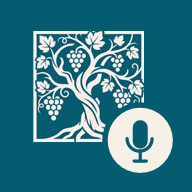
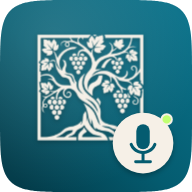
Etape 1 : vocabulaire de correction repliable et securise, reglage Apparence (clair par defaut), icone D, texte A propos

diff --git a/app.css b/app.css
@@ -7,21 +7,28 @@
 
 :root {
   --bg: #F6F0E7; --surface: #FCFAF5; --surface2: #F2EBDF; --side: #F1EADF;
-  --ink: #1F2A30; --text: #444444; --muted: #766F64; --line: rgba(4, 92, 112, .13); --line-strong: rgba(4, 92, 112, .24);
+  --ink: #1F2A30; --text: #444444; --doc: #333333; --muted: #766F64; --line: rgba(4, 92, 112, .13); --line-strong: rgba(4, 92, 112, .24);
   --teal: #045C70; --teal-d: #033F4E; --teal-soft: #E3EEF0; --on-teal: #F6F0E7; --navy: #082952; --blue: #1F497D; --marine: #1F497D; --flash: #C1FF72;
   --danger: #A33B3B; --danger-soft: #F5E4E2; --ok: #2E7D5B;
   --shadow: 0 1px 0 rgba(31, 73, 125, .04), 0 10px 28px -14px rgba(31, 73, 125, .22);
   --serif: "Abhaya Libre", Georgia, serif; --sans: "Open Sans", -apple-system, system-ui, "Segoe UI", sans-serif;
   --tab-h: 66px; --r-lg: 24px; --r-md: 18px; --r-sm: 13px; --side-w: 252px;
 }
+:root { color-scheme: light; }
+:root[data-theme="dark"] { color-scheme: dark; }
+:root[data-theme="auto"] { color-scheme: light dark; }
+:root[data-theme="dark"] {
+  --bg: #071A33; --surface: #0D2747; --surface2: #0A213E; --side: #08203B; --ink: #F6F0E7; --text: #D8D2C6; --doc: #E6E0D4; --muted: #98A5B6; --line: rgba(246, 240, 231, .12); --line-strong: rgba(246, 240, 231, .24);
+  --teal: #6CB8CA; --teal-d: #8CC8D6; --teal-soft: #12384F; --on-teal: #06223A; --marine: #9DB8DD; --blue: #9DB8DD; --danger: #E88A84; --danger-soft: #3A1F28; --ok: #6FCF9F;
+  --shadow: 0 1px 0 rgba(0, 0, 0, .3), 0 10px 28px -14px rgba(0, 0, 0, .5);
+}
 @media (prefers-color-scheme: dark) {
-  :root {
-    --bg: #071A33; --surface: #0D2747; --surface2: #0A213E; --side: #08203B; --ink: #F6F0E7; --text: #D8D2C6; --muted: #98A5B6; --line: rgba(246, 240, 231, .12); --line-strong: rgba(246, 240, 231, .24);
+  :root[data-theme="auto"] {
+    --bg: #071A33; --surface: #0D2747; --surface2: #0A213E; --side: #08203B; --ink: #F6F0E7; --text: #D8D2C6; --doc: #E6E0D4; --muted: #98A5B6; --line: rgba(246, 240, 231, .12); --line-strong: rgba(246, 240, 231, .24);
     --teal: #6CB8CA; --teal-d: #8CC8D6; --teal-soft: #12384F; --on-teal: #06223A; --marine: #9DB8DD; --blue: #9DB8DD; --danger: #E88A84; --danger-soft: #3A1F28; --ok: #6FCF9F;
     --shadow: 0 1px 0 rgba(0, 0, 0, .3), 0 10px 28px -14px rgba(0, 0, 0, .5);
   }
-}
-* { box-sizing: border-box; -webkit-tap-highlight-color: transparent; }
+}* { box-sizing: border-box; -webkit-tap-highlight-color: transparent; }
 [hidden] { display: none !important; }
 html { -webkit-text-size-adjust: 100%; }
 body { margin: 0; background: var(--bg); color: var(--text); font: 400 15.5px/1.55 var(--sans); -webkit-font-smoothing: antialiased; }
@@ -121,7 +128,7 @@ select.field { background-image: linear-gradient(45deg, transparent 50%, var(--m
 .banner button { border: 0; background: none; color: var(--teal); font: 700 13.5px var(--sans); padding: 6px 0 0; }
 
 /* ----- Accueil ----- */
-.hero { margin-top: 20px; border-radius: 28px; padding: 24px 22px 22px; color: var(--on-teal); position: relative; overflow: hidden; background: linear-gradient(150deg, #0B7189 0%, var(--teal) 45%, #033F4E 100%); box-shadow: 0 22px 36px -22px rgba(4, 92, 112, .85); }
+.hero { margin-top: 20px; border-radius: 28px; padding: 24px 22px 22px; color: var(--on-teal); position: relative; overflow: hidden; background: linear-gradient(150deg, #0B7189 0%, #045C70 45%, #033F4E 100%); box-shadow: 0 22px 36px -22px rgba(4, 92, 112, .85); }
 .hero::after { content: ""; position: absolute; width: 215px; height: 215px; right: -34px; bottom: -40px; background: url(img/emblem-ivory.png) center/contain no-repeat; opacity: .13; pointer-events: none; }
 .hero .eyebrow { color: rgba(246, 240, 231, .72); }
 .hero h2 { font: 400 30px/1.12 var(--serif); margin: 10px 0 8px; color: #F6F0E7; max-width: 260px; }
@@ -172,7 +179,7 @@ select.field { background-image: linear-gradient(45deg, transparent 50%, var(--m
 .actions .btn.small { padding: 8px 14px; font-size: 13.5px; gap: 6px; }
 .round { position: relative; width: 44px; height: 44px; flex: none; border-radius: 50%; border: 1px solid var(--line-strong); background: transparent; display: grid; place-items: center; color: var(--teal); padding: 0; }
 .round b { position: absolute; top: -5px; right: -5px; min-width: 19px; height: 19px; border-radius: 10px; background: var(--marine); color: #fff; font: 700 10.5px/19px var(--sans); text-align: center; padding: 0 5px; }
-#app .view textarea.doc, .doc { background: var(--surface); border: 1px solid var(--line); border-radius: var(--r-lg); box-shadow: var(--shadow); padding: 20px; font-size: 16px; line-height: 1.75; color: #333; }
+#app .view textarea.doc, .doc { background: var(--surface); border: 1px solid var(--line); border-radius: var(--r-lg); box-shadow: var(--shadow); padding: 20px; font-size: 16px; line-height: 1.75; color: var(--doc); }
 .doc-scroll { min-height: 170px; max-height: 70dvh; overflow: auto; }
 .player { display: flex; align-items: center; gap: 14px; }
 .player .play { width: 50px; height: 50px; border-radius: 50%; border: 0; background: var(--teal); color: var(--on-teal); display: grid; place-items: center; flex: none; }
@@ -189,7 +196,7 @@ select.field { background-image: linear-gradient(45deg, transparent 50%, var(--m
 .rsec-head .rt { flex: 1; }
 .info-grid { display: grid; gap: 4px; }
 .kv { display: flex; justify-content: space-between; gap: 12px; padding: 11px 0; border-bottom: 1px solid var(--line); font-size: 14.5px; }
-.kv:last-child { border-bottom: 0; } .kv span:first-child { color: var(--muted); } .kv span:last-child { color: var(--ink); text-align: right; }
+.kv:last-child { border-bottom: 0; } .kv > span:first-child { color: var(--muted); } .kv > span:last-child { color: var(--ink); text-align: right; }
 .catpick { display: grid; gap: 8px; }
 .catpick button { display: flex; align-items: center; gap: 12px; text-align: left; border: 1px solid var(--line); background: var(--surface); border-radius: var(--r-md); padding: 12px 14px; min-height: 56px; }
 .catpick button.on { border-color: var(--teal); background: var(--teal-soft); box-shadow: inset 0 0 0 1px var(--teal); }
@@ -230,7 +237,7 @@ select.field { background-image: linear-gradient(45deg, transparent 50%, var(--m
 .picker-row svg { color: var(--teal); }
 #toast { position: fixed; left: 50%; bottom: calc(var(--tab-h) + 26px + env(safe-area-inset-bottom)); transform: translate(-50%, 12px); background: var(--navy); color: #F6F0E7; padding: 12px 20px; border-radius: 999px; font-size: 14.5px; opacity: 0; pointer-events: none; transition: all .25s ease; z-index: 70; max-width: 90vw; text-align: center; box-shadow: 0 8px 24px rgba(0, 0, 0, .25); }
 #toast.show { opacity: 1; transform: translate(-50%, 0); }
-.ia-card { border: 1px dashed var(--line-strong); background: rgba(255, 255, 255, .45); box-shadow: none; }
+.ia-card { border: 1px dashed var(--line-strong); background: color-mix(in srgb, var(--surface) 55%, transparent); box-shadow: none; }
 .ia-card .badge { display: inline-block; background: var(--teal-soft); color: var(--teal); border-radius: 999px; padding: 3px 10px; font: 600 11px var(--sans); margin-left: 8px; vertical-align: middle; }
 .settings-group { margin-top: 26px; }
 .settings-group > h2 { font: 700 11px/1 var(--sans); letter-spacing: .14em; text-transform: uppercase; color: var(--teal); margin-bottom: 12px; }
@@ -308,3 +315,18 @@ html.kbd .update-banner { display: none; }
   @page { margin: 18mm 16mm; }
 }
 @media (prefers-reduced-motion: reduce) { * { animation: none !important; transition: none !important; } }
+
+/* ----- Section dépliable (vocabulaire de correction) ----- */
+.acc { padding: 0; overflow: hidden; }
+.acc-head { display: flex; align-items: center; gap: 14px; width: 100%; padding: 16px; border: 0; background: none; text-align: left; min-height: 76px; cursor: pointer; }
+.acc-title { font: 600 15.5px/1.3 var(--sans); color: var(--ink); }
+.acc-sub { font-size: 12.8px; color: var(--muted); margin-top: 2px; }
+.acc-chev { color: #b4aea2; transition: transform .2s ease; flex: none; width: 18px; height: 18px; }
+.acc.open .acc-chev { transform: rotate(90deg); }
+.acc-body { padding: 4px 16px 18px; border-top: 1px solid var(--line); }
+.acc-add { padding-top: 12px; }
+.check { display: flex; gap: 10px; align-items: flex-start; margin-top: 12px; font-size: 13.5px; color: var(--text); cursor: pointer; }
+.check input { width: 20px; height: 20px; margin: 1px 0 0; flex: none; }
+.vocab-item { padding: 14px 0; border-bottom: 1px solid var(--line); }
+.vocab-item:last-child { border-bottom: 0; }
+.vocab-foot { display: flex; justify-content: space-between; align-items: center; margin-top: 10px; }

diff --git a/js/vocab-ui.js b/js/vocab-ui.js
@@ -1,0 +1,78 @@
+// Réglages : vocabulaire de correction, sous forme de section dépliable (fermée par défaut).
+// Les corrections servent à réécrire les mots que la transcription Apple orthographie mal (PEA, assurance-vie, SCPI…).
+import { h, icon, toast, confirmDialog } from './ui.js';
+import * as S from './store.js';
+
+export function vocabAccordion() {
+  let list = S.getVocab();
+  let open = false, query = '';
+  const save = () => { S.setVocab(list); count(); };
+  const norm = (s) => (s || '').toLowerCase().normalize('NFD').replace(/[̀-ͯ]/g, '');
+
+  const title = h('div', { class: 'acc-title', text: 'Vocabulaire de correction' });
+  const sub = h('div', { class: 'acc-sub' });
+  const chev = icon('chevron', 'acc-chev');
+  const head = h('button', { class: 'acc-head', 'aria-expanded': 'false', onclick: () => { open = !open; sync(); } }, h('div', { class: 'tile' }, icon('edit')), h('div', { class: 'grow' }, title, sub), chev);
+  const body = h('div', { class: 'acc-body', hidden: true });
+  const card = h('div', { class: 'card acc' }, head, body);
+  const count = () => { const n = list.length; sub.textContent = n ? `${n} correction${n > 1 ? 's' : ''} enregistrée${n > 1 ? 's' : ''}` : 'Aucune correction enregistrée'; };
+
+  // ----- ajout rapide -----
+  const fromInp = h('input', { class: 'field', placeholder: 'Mot mal transcrit (ex. assurance vie)', autocapitalize: 'none', autocorrect: 'off', maxlength: '100', 'aria-label': 'Mot mal transcrit' });
+  const toInp = h('input', { class: 'field', placeholder: 'Bonne écriture (ex. assurance-vie)', autocapitalize: 'none', autocorrect: 'off', maxlength: '100', 'aria-label': 'Bonne écriture' });
+  const csChk = h('input', { type: 'checkbox', id: 'vocab-cs' });
+  const addErr = h('p', { class: 'hint', style: { color: 'var(--danger)', margin: '6px 0 0' }, hidden: true });
+  function add() {
+    const f = fromInp.value.trim(), t = toInp.value.trim();
+    const dup = list.find((v) => v.from.trim().toLowerCase() === f.toLowerCase());
+    const err = S.checkVocabEntry(f, t, list.concat(dup ? [] : []));
+    if (err) { addErr.textContent = err; addErr.hidden = false; return; }
+    addErr.hidden = true;
+    if (dup) { dup.to = t; if (csChk.checked) dup.cs = true; else delete dup.cs; toast('Correction mise à jour'); }
+    else { const e = { from: f, to: t }; if (csChk.checked) e.cs = true; list.unshift(e); toast('Correction ajoutée'); }
+    save(); fromInp.value = ''; toInp.value = ''; csChk.checked = false; query = ''; search.value = ''; draw(); fromInp.focus();
+  }
+  const addBtn = h('button', { class: 'btn primary', style: { marginTop: '12px' }, onclick: add }, icon('plus'), h('span', { text: 'Ajouter cette correction' }));
+  toInp.addEventListener('keydown', (ev) => { if (ev.key === 'Enter') add(); });
+  const adder = h('div', { class: 'acc-add' },
+    h('div', { class: 'lbl', style: { marginTop: 0 }, text: 'Nouvelle correction' }), fromInp, h('div', { style: { height: '8px' } }), toInp,
+    h('label', { class: 'check', for: 'vocab-cs' }, csChk, h('span', { text: 'Respecter exactement les majuscules (pour un terme ambigu)' })), addErr, addBtn);
+
+  // ----- liste -----
+  const search = h('input', { class: 'field', type: 'search', placeholder: 'Rechercher dans mes corrections', 'aria-label': 'Rechercher dans mes corrections', autocomplete: 'off' });
+  search.addEventListener('input', () => { query = norm(search.value.trim()); draw(); });
+  const listBox = h('div', { class: 'acc-list' });
+  function draw() {
+    listBox.textContent = '';
+    const shown = list.map((v, i) => ({ v, i })).filter(({ v }) => !query || norm(v.from + ' ' + v.to).includes(query));
+    if (!shown.length) listBox.append(h('p', { class: 'hint', text: list.length ? 'Aucune correction ne correspond.' : 'Aucune correction pour le moment. Ajoutez-en une ci-dessus.' }));
+    for (const { v, i } of shown) {
+      const a = h('input', { class: 'field', value: v.from, autocapitalize: 'none', autocorrect: 'off', maxlength: '100', 'aria-label': 'Mot mal transcrit' });
+      const b = h('input', { class: 'field', value: v.to, autocapitalize: 'none', autocorrect: 'off', maxlength: '100', 'aria-label': 'Bonne écriture' });
+      const warn = h('p', { class: 'hint', style: { color: 'var(--danger)', margin: '4px 0 0' }, hidden: true });
+      const commit = () => {
+        const f = a.value.trim(), t = b.value.trim();
+        const err = S.checkVocabEntry(f, t, []);
+        if (err) { warn.textContent = err + ' Modification non enregistrée.'; warn.hidden = false; return; }
+        warn.hidden = true; v.from = f; v.to = t; save();
+      };
+      a.addEventListener('change', commit); b.addEventListener('change', commit);
+      const cs = h('input', { type: 'checkbox', checked: !!v.cs, 'aria-label': 'Respecter exactement les majuscules' });
+      cs.addEventListener('change', () => { if (cs.checked) v.cs = true; else delete v.cs; save(); });
+      listBox.append(h('div', { class: 'vocab-item' },
+        h('label', { class: 'lbl', style: { marginTop: 0 }, text: 'La transcription écrit' }), a,
+        h('label', { class: 'lbl', style: { marginTop: '8px' }, text: 'Remplacer par' }), b, warn,
+        h('div', { class: 'vocab-foot' },
+          h('label', { class: 'check' }, cs, h('span', { text: 'Casse exacte' })),
+          h('button', { class: 'btn small danger-ghost', 'aria-label': 'Supprimer cette correction', onclick: async () => {
+            if (!(await confirmDialog({ title: 'Supprimer cette correction ?', message: `« ${v.from} » → « ${v.to} »`, confirmLabel: 'Supprimer', danger: true }))) return;
+            list.splice(list.indexOf(v), 1); save(); draw(); toast('Correction supprimée');
+          } }, icon('trash'), h('span', { text: 'Supprimer' })))));
+    }
+  }
+  body.append(h('p', { class: 'hint', style: { marginTop: 0 }, text: 'Mots que la transcription écrit souvent mal. Dans une fiche, « Corriger » puis « Appliquer mon vocabulaire » les remplace d\'un coup. Seuls les mots entiers sont remplacés ; les chiffres, les montants et les noms propres ne sont jamais touchés.' }), adder, h('div', { class: 'lbl' }, 'Corrections enregistrées'), search, listBox);
+
+  function sync() { body.hidden = !open; head.setAttribute('aria-expanded', String(open)); card.classList.toggle('open', open); if (open) draw(); }
+  count();
+  return card;
+}

diff --git a/js/views-settings.js b/js/views-settings.js
@@ -8,6 +8,7 @@ import * as Up from './update.js';
 import { shareOrDownload } from './exports.js';
 import { AI_STATUS_TEXT } from './ai.js';
 import { modelStatus, localAiSettings, setLocalAi } from './ia-local.js';
+import { vocabAccordion } from './vocab-ui.js';
 
 const fmtMo = (b) => (b / 1048576).toFixed(b > 1e9 ? 0 : 1) + ' Mo';
 const today = () => { const d = new Date(); return `${d.getFullYear()}-${String(d.getMonth() + 1).padStart(2, '0')}-${String(d.getDate()).padStart(2, '0')}`; };
@@ -80,25 +81,18 @@ export async function settingsView({ query }) {
     document.body.append(inp); inp.click(); setTimeout(() => inp.remove(), 120000);
   }
 
-  // ---------- Vocabulaire ----------
-  function vocabBlock() {
-    const list = S.getVocab();
-    const box = h('div', {});
-    const save = () => S.setVocab(list.filter((v) => v.from.trim() || v.to.trim()));
-    function draw() {
-      box.textContent = '';
-      list.forEach((v, i) => {
-        const a = h('input', { class: 'field', value: v.from, placeholder: 'Erreur fréquente', autocapitalize: 'none', autocorrect: 'off', 'aria-label': 'Erreur fréquente' });
-        const b = h('input', { class: 'field', value: v.to, placeholder: 'Écriture correcte', autocapitalize: 'none', autocorrect: 'off', 'aria-label': 'Écriture correcte' });
-        a.addEventListener('input', () => { v.from = a.value; save(); }); b.addEventListener('input', () => { v.to = b.value; save(); });
-        box.append(h('div', { class: 'vocab-row' }, a, h('span', { text: '→' }), b, h('button', { class: 'iconbtn', 'aria-label': 'Supprimer', style: { color: 'var(--danger)', flex: 'none' }, onclick: () => { list.splice(i, 1); save(); draw(); } }, icon('trash'))));
-      });
-      box.append(h('button', { class: 'btn small', style: { marginTop: '12px' }, onclick: () => { list.push({ from: '', to: '' }); draw(); const f = box.querySelectorAll('.vocab-row input'); f[f.length - 2] && f[f.length - 2].focus(); } }, icon('plus'), h('span', { text: 'Ajouter une correction' })));
-    }
-    draw();
-    return h('div', { class: 'card' }, h('p', { class: 'hint', style: { marginTop: 0 }, text: 'Mots que la transcription Apple écrit souvent mal. Dans une transcription, « Corriger » puis « Appliquer mon vocabulaire » les remplace d\'un coup.' }), box);
+  // ---------- Apparence ----------
+  function themeBlock() {
+    const cur = (S.getSettings().theme) || 'light';
+    const opts = [['light', 'Clair'], ['auto', 'Automatique'], ['dark', 'Sombre']];
+    const seg = h('div', { class: 'seg' }, opts.map(([k, label]) => h('button', { class: cur === k ? 'on' : '', text: label, onclick: () => {
+      S.setSetting('theme', k); document.documentElement.setAttribute('data-theme', k);
+      const dark = k === 'dark' || (k === 'auto' && matchMedia('(prefers-color-scheme: dark)').matches);
+      const m = document.querySelector('meta[name="theme-color"]'); if (m) m.setAttribute('content', dark ? '#071A33' : '#F6F0E7');
+      seg.querySelectorAll('button').forEach((b) => b.classList.toggle('on', b.textContent === label));
+    } })));
+    return h('div', { class: 'card' }, seg, h('p', { class: 'hint', text: 'Clair : ambiance coquille d\'œuf (par défaut). Automatique : suit le mode sombre de l\'appareil. Sombre : fond bleu nuit.' }));
   }
-
   // ---------- IA locale ----------
   // Rien n'est supposé : un modèle n'est proposé que s'il a réussi la sonde IA SUR CET APPAREIL (voir ia-local.js).
   function aiBlock() {
@@ -163,7 +157,8 @@ export async function settingsView({ query }) {
             h('button', { class: 'btn primary', onclick: backupFlow }, icon('share'), h('span', { text: 'Sauvegarder' })),
             h('button', { class: 'btn', onclick: restoreFlow }, icon('archive'), h('span', { text: 'Restaurer' }))))),
 
-      group('Vocabulaire de correction', vocabBlock()),
+      h('div', { class: 'settings-group' }, vocabAccordion()),
+      group('Apparence', themeBlock()),
 
       group('Intelligence artificielle', aiBlock()),
 
@@ -201,7 +196,7 @@ export async function settingsView({ query }) {
       group('À propos',
         h('div', { class: 'card' },
           h('div', { class: 'kv' }, h('span', { text: 'Version' }), h('span', { text: APP_VERSION })),
-          h('p', { class: 'hint', text: 'Dictaphone IA, développé pour Ade-ci Family Office. Polices Abhaya Libre et DM Sans (licence SIL OFL).' }))),
+          h('p', { class: 'hint', text: 'Dictaphone IA, développé pour Ade-ci Family Office. Polices Abhaya Libre (titres) et Open Sans (textes), licence SIL OFL.' }))),
       h('div', { style: { height: '12px' } }));
     drawStorage();
   };

diff --git a/js/views-entretien.js b/js/views-entretien.js
@@ -403,19 +403,26 @@ export async function ficheView({ params, query }) {
     const fix = () => sheet({ title: 'Corriger la transcription', build(body, close) {
       const find = h('input', { class: 'field', placeholder: 'Mot ou expression erronée', autocapitalize: 'none', autocorrect: 'off' });
       const rep = h('input', { class: 'field', placeholder: 'Remplacer par', autocapitalize: 'none', autocorrect: 'off' });
+      const csChk = h('input', { type: 'checkbox' }), keepChk = h('input', { type: 'checkbox' });
+      const found = h('p', { class: 'hint', style: { margin: '8px 0 0' } });
+      const upFound = () => { const f = find.value.trim(); if (!f) { found.textContent = ''; return; } const n = S.replaceWords(ta.value, f, rep.value, { cs: csChk.checked }).count; found.textContent = n ? `${n} occurrence${n > 1 ? 's' : ''} trouvée${n > 1 ? 's' : ''} (mots entiers uniquement).` : 'Aucune occurrence trouvée.'; };
+      for (const x of [find, rep, csChk]) x.addEventListener('input', upFound);
       const doReplace = async () => {
-        const f = find.value; if (!f) return find.focus();
-        const parts = ta.value.split(f); const n = parts.length - 1;
-        if (!n) return toast('Aucune occurrence trouvée.');
-        close(); if (await applyChange(parts.join(rep.value), 'correction', `« ${f.slice(0, 30)} » → « ${rep.value.slice(0, 30)} »`)) toast(`${n} remplacement${n > 1 ? 's' : ''}`);
-      };
-      const vocab = S.getVocab();
+        const f = find.value.trim(); if (!f) return find.focus();
+        const r = S.replaceWords(ta.value, f, rep.value, { cs: csChk.checked });
+        if (!r.count) return toast('Aucune occurrence trouvée.');
+        let kept = '';
+        if (keepChk.checked) { const err = S.addVocabEntry(f, rep.value, csChk.checked); kept = err ? ' (non retenue : ' + err + ')' : ' · retenue dans le vocabulaire'; }
+        close(); if (await applyChange(r.text, 'correction', `« ${f.slice(0, 30)} » → « ${rep.value.slice(0, 30)} »`)) toast(`${r.count} remplacement${r.count > 1 ? 's' : ''}${kept}`, 4500);
+      };      const vocab = S.getVocab();
       const last = e.transcriptHistory[0];
       body.append(
-        h('label', { class: 'lbl', text: 'Rechercher' }), find, h('label', { class: 'lbl', text: 'Remplacer par' }), rep,
+        h('label', { class: 'lbl', text: 'Rechercher' }), find, h('label', { class: 'lbl', text: 'Remplacer par' }), rep, found,
+        h('label', { class: 'check' }, csChk, h('span', { text: 'Respecter les majuscules' })),
+        h('label', { class: 'check' }, keepChk, h('span', { text: 'Retenir cette correction dans mon vocabulaire' })),
         h('div', { class: 'sheet-actions' },
           h('button', { class: 'btn primary', text: 'Tout remplacer', onclick: doReplace }),
-          h('button', { class: 'btn', onclick: async () => { const r = S.applyVocab(ta.value, vocab); if (!r.count) return toast('Aucune correction à appliquer.'); close(); if (await applyChange(r.text, 'correction', 'vocabulaire')) toast(`${r.count} correction${r.count > 1 ? 's' : ''} du vocabulaire appliquée${r.count > 1 ? 's' : ''}`); } }, icon('sparkle'), h('span', { text: `Appliquer mon vocabulaire (${vocab.length})` })),
+          h('button', { class: 'btn', onclick: async () => { const r = S.applyVocab(ta.value, vocab); if (!r.count) return toast(r.skipped ? 'Aucune correction appliquée : ' + r.skipped + ' occurrence(s) ignorée(s) par prudence (noms propres possibles).' : 'Aucune correction à appliquer.', 5000); close(); if (await applyChange(r.text, 'correction', 'vocabulaire')) toast(`${r.count} correction${r.count > 1 ? 's' : ''} du vocabulaire appliquée${r.count > 1 ? 's' : ''}`); } }, icon('sparkle'), h('span', { text: `Appliquer mon vocabulaire (${vocab.length})` })),
           last && last.reason === 'correction' ? h('button', { class: 'btn', text: 'Annuler la dernière correction', onclick: async () => { close(); toast((await applyChange(last.text, 'rétablissement', 'avant correction')) ? 'Correction annulée' : 'Annulation impossible'); } }) : null,
           h('button', { class: 'btn', text: 'Fermer', onclick: close })));
     } });

diff --git a/js/store.js b/js/store.js
@@ -152,18 +152,59 @@ export function getVocab() {
 }
 export function setVocab(list) { try { localStorage.setItem(VOCAB_KEY, JSON.stringify(list)); } catch {} }
 const esc = (s) => s.replace(/[.*+?^${}()|[\]\\]/g, '\\$&');
-// Remplace des mots entiers, sans tenir compte de la casse. Renvoie le texte corrigé et le nombre de remplacements.
-export function applyVocab(text, vocab) {
+const MAX_VOCAB = 2000;
+// Une correction est refusée si elle risque de toucher un montant, une date ou un nom : pas de chiffre dans l'erreur à corriger,
+// au moins 2 caractères, aucune différence autre que l'écriture, et pas de doublon.
+export function checkVocabEntry(from, to, list = []) {
+  const f = (from || '').trim(), t = (to || '').trim();
+  if (f.length < 2) return 'L\'erreur à corriger doit faire au moins 2 caractères.';
+  if (!t) return 'Indiquez l\'écriture correcte.';
+  if (f.length > 100 || t.length > 100) return 'Texte trop long (100 caractères au maximum).';
+  if (/\d/.test(f)) return 'Une correction ne peut pas contenir de chiffre : elle risquerait de modifier un montant ou une date.';
+  if (f === t) return 'L\'erreur et l\'écriture correcte sont identiques.';
+  if (list.length >= MAX_VOCAB) return 'Nombre maximal de corrections atteint.';
+  return '';
+}
+// Remplacement manuel de mots entiers (utilisé par « Corriger ») : la casse est ignorée sauf demande contraire.
+export function replaceWords(text, from, to, { cs = false } = {}) {
+  const f = (from || '').trim();
+  if (!f) return { text, count: 0 };
   let count = 0;
-  let out = text;
-  for (const { from, to } of vocab) {
-    if (!from || !from.trim()) continue;
-    const re = new RegExp('(^|[^\\p{L}\\p{N}])(' + esc(from.trim()).replace(/\s+/g, '\\s+') + ')(?![\\p{L}\\p{N}])', 'giu');
-    out = out.replace(re, (m, pre) => { count++; return pre + to; });
-  }
+  const re = new RegExp('(^|[^\\p{L}\\p{N}])(' + esc(f).replace(/\s+/g, '\\s+') + ')(?![\\p{L}\\p{N}])', cs ? 'gu' : 'giu');
+  const out = text.replace(re, (m, pre) => { count++; return pre + to; });
   return { text: out, count };
 }
-
+// Ajoute ou met à jour une correction du vocabulaire. Renvoie un message d'erreur, ou '' si c'est enregistré.
+export function addVocabEntry(from, to, cs = false) {
+  const list = getVocab();
+  const dup = list.find((v) => v.from.trim().toLowerCase() === (from || '').trim().toLowerCase());
+  const err = checkVocabEntry(from, to, list);
+  if (err) return err;
+  if (dup) { dup.to = to.trim(); if (cs) dup.cs = true; else delete dup.cs; }
+  else { const e = { from: from.trim(), to: to.trim() }; if (cs) e.cs = true; list.unshift(e); }
+  setVocab(list);
+  return '';
+}
+// Remplace des mots ENTIERS (jamais une partie de mot, jamais collés à un chiffre). Sécurités :
+// - une correction « casse exacte » (cs) ne s'applique que si la casse est identique ;
+// - sinon, un mot qui commence par une majuscule au milieu d'une phrase est considéré comme un nom propre et laissé tel quel.
+// Renvoie le texte corrigé, le nombre de remplacements et le nombre d'occurrences ignorées par prudence.
+export function applyVocab(text, vocab) {
+  let count = 0, skipped = 0;
+  let out = text;
+  const SENT = /(^|[.!?…:;\n"«(\u2014\u2013-])\s*$/;
+  for (const { from, to, cs } of vocab) {
+    if (!from || !from.trim() || !to || /\d/.test(from)) continue;
+    const re = new RegExp('(^|[^\\p{L}\\p{N}])(' + esc(from.trim()).replace(/\s+/g, '\\s+') + ')(?![\\p{L}\\p{N}])', cs ? 'gu' : 'giu');
+    const fromHasUpper = /\p{Lu}/u.test(from);
+    out = out.replace(re, (m, pre, word, offset, whole) => {
+      const start = offset + pre.length;
+      if (!cs && !fromHasUpper && /^\p{Lu}/u.test(word) && start > 0 && !SENT.test(whole.slice(Math.max(0, start - 3), start))) { skipped++; return m; }
+      count++; return pre + to;
+    });
+  }
+  return { text: out, count, skipped };
+}
 // ---------- Réglages simples ----------
 const SET_KEY = 'dia_settings';
 export function getSettings() { try { return JSON.parse(localStorage.getItem(SET_KEY)) || {}; } catch { return {}; } }

diff --git a/sw.js b/sw.js
@@ -3,7 +3,7 @@
 const V = 'dictaphone-v11-0.5.1';
 const SHELL = [
   './', 'index.html', 'app.css', 'manifest.webmanifest',
-  'js/main.js', 'js/ui.js', 'js/store.js', 'js/defaults.js', 'js/common.js', 'js/exports.js', 'js/pdf.js', 'js/backup.js', 'js/ai.js', 'js/version.js', 'js/import.js', 'js/pdfread.js', 'js/update.js', 'js/ttf.js', 'fonts/pdf/AbhayaLibre-Regular.ttf', 'fonts/pdf/OpenSans-Light.ttf', 'fonts/pdf/OpenSans-Regular.ttf', 'vendor/pdfjs/pdf.min.mjs', 'vendor/pdfjs/pdf.worker.min.mjs',
+  'js/main.js', 'js/ui.js', 'js/store.js', 'js/defaults.js', 'js/common.js', 'js/exports.js', 'js/pdf.js', 'js/backup.js', 'js/ai.js', 'js/version.js', 'js/import.js', 'js/pdfread.js', 'js/update.js', 'js/theme.js', 'js/vocab-ui.js', 'js/ttf.js', 'fonts/pdf/AbhayaLibre-Regular.ttf', 'fonts/pdf/OpenSans-Light.ttf', 'fonts/pdf/OpenSans-Regular.ttf', 'vendor/pdfjs/pdf.min.mjs', 'vendor/pdfjs/pdf.worker.min.mjs',
   'js/views-home.js', 'js/views-library.js', 'js/views-entretien.js', 'js/views-templates.js', 'js/views-settings.js',
   'db.js', 'audio.js',
   'fonts/abhaya-libre-latin-400-normal.woff2', 'fonts/abhaya-libre-latin-600-normal.woff2', 'fonts/open-sans-latin-wght-normal.woff2',

diff --git a/js/theme.js b/js/theme.js
@@ -1,0 +1,11 @@
+// Apparence : « clair » (par défaut, ambiance coquille d'œuf des maquettes), « sombre », ou « automatique » (suit l'iPhone / Windows).
+// Ce petit script est chargé avant l'affichage pour éviter un clignotement.
+(function () {
+  var theme = 'light';
+  try { var s = JSON.parse(localStorage.getItem('dia_settings')) || {}; if (s.theme === 'dark' || s.theme === 'auto' || s.theme === 'light') theme = s.theme; } catch (e) {}
+  document.documentElement.setAttribute('data-theme', theme);
+  var dark = theme === 'dark' || (theme === 'auto' && window.matchMedia && window.matchMedia('(prefers-color-scheme: dark)').matches);
+  var metas = document.querySelectorAll('meta[name="theme-color"]');
+  for (var i = metas.length - 1; i > 0; i--) metas[i].parentNode.removeChild(metas[i]);
+  if (metas[0]) { metas[0].removeAttribute('media'); metas[0].setAttribute('content', dark ? '#071A33' : '#F6F0E7'); }
+})();

diff --git a/index.html b/index.html
@@ -17,10 +17,11 @@
   <meta name="apple-mobile-web-app-status-bar-style" content="default">
   <meta name="format-detection" content="telephone=no">
   <link rel="manifest" href="manifest.webmanifest">
-  <link rel="apple-touch-icon" href="icon-180.png?v=3">
-  <link rel="apple-touch-icon" sizes="180x180" href="icon-180.png?v=3">
-  <link rel="icon" type="image/png" sizes="32x32" href="icon-32.png?v=3">
-  <link rel="icon" type="image/png" sizes="192x192" href="icon-192.png?v=3">
+  <link rel="apple-touch-icon" href="icon-180.png?v=4">
+  <link rel="apple-touch-icon" sizes="180x180" href="icon-180.png?v=4">
+  <link rel="icon" type="image/png" sizes="32x32" href="icon-32.png?v=4">
+  <link rel="icon" type="image/png" sizes="192x192" href="icon-192.png?v=4">
+  <script src="js/theme.js"></script>
   <link rel="stylesheet" href="app.css">
 </head>
 <body>

diff --git a/js/backup.js b/js/backup.js
@@ -87,7 +87,7 @@ export function sanitize(obj) {
     bookmarks: [], createdAt: num(s.createdAt, Date.now()), updatedAt: num(s.updatedAt, Date.now()),
     durationSec: num(s.durationSec), hadAudio: !!s.hadAudio, nChunks: 0, doneChunks: 0, hasOriginal: false,
   }));
-  const vocab = (Array.isArray(obj.vocab) ? obj.vocab : []).filter((v) => v && typeof v.from === 'string' && typeof v.to === 'string').slice(0, 500).map((v) => ({ from: v.from.slice(0, 100), to: v.to.slice(0, 100) }));
+  const vocab = (Array.isArray(obj.vocab) ? obj.vocab : []).filter((v) => v && typeof v.from === 'string' && typeof v.to === 'string').slice(0, 2000).map((v) => ({ from: v.from.slice(0, 100), to: v.to.slice(0, 100), ...(v.cs ? { cs: true } : {}) }));
   return { folders, templates, sessions, vocab };
 }
 

diff --git a/ia.html b/ia.html
@@ -7,7 +7,8 @@
   <title>Rédaction par l'IA locale – Dictaphone IA</title>
   <meta name="referrer" content="no-referrer">
   <meta name="theme-color" content="#F6F0E7">
-  <link rel="apple-touch-icon" href="icon-180.png">
+  <link rel="apple-touch-icon" href="icon-180.png?v=4">
+  <script src="js/theme.js"></script>
   <link rel="stylesheet" href="app.css">
 </head>
 <body>
